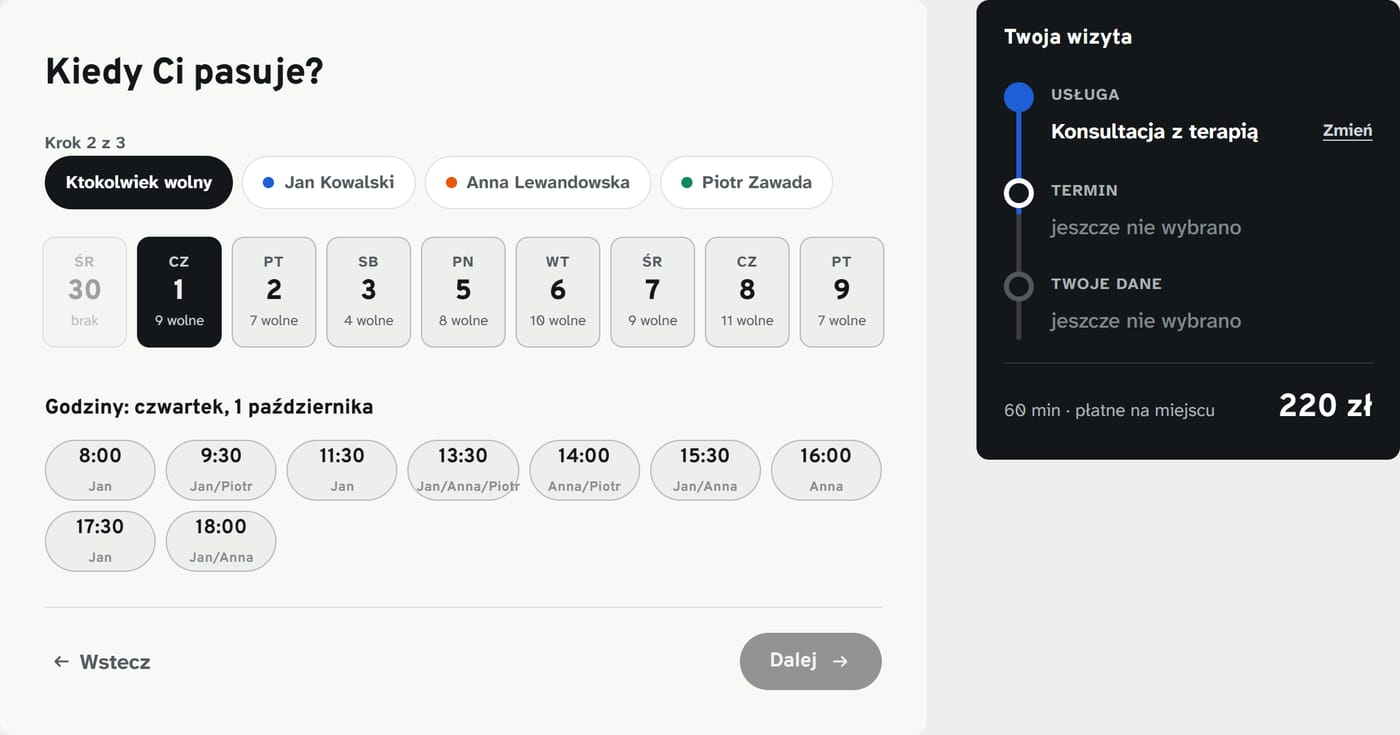
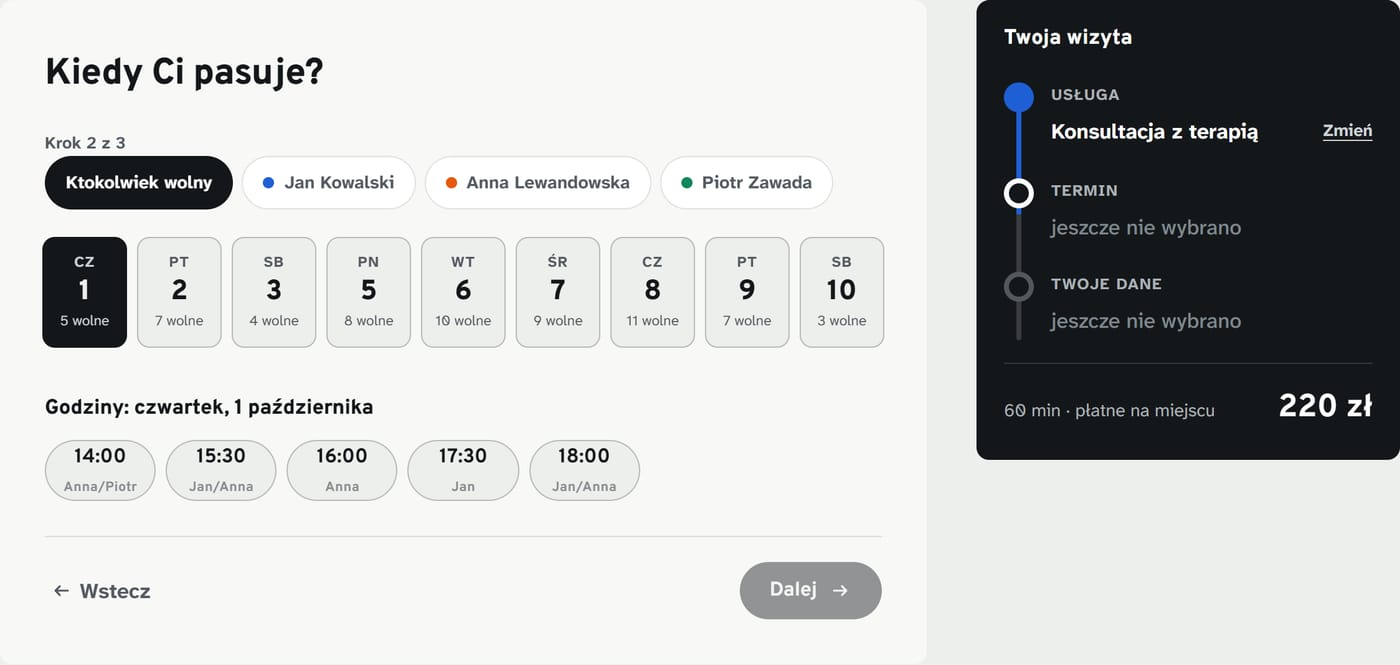
Makiety na ofercie pokazują kalendarz rezerwacji, nie stronę główną
W hero telefon z wyborem godziny zamiast ekranu startowego strony, a przy
pierwszej grupie zakresu szeroki kadr kroku z terminami. To on przekonuje:
widać prawdziwe godziny, imiona terapeutów i brak zajętych terminów, a nie
sam nagłówek „Co Cię boli?”.

Nowy zrzut strona-terminy-telefon dodany do generatora.

Testy UX: 75/75.

diff --git a/oferta-pilotaz.html b/oferta-pilotaz.html
@@ -73,7 +73,7 @@
 
         <div class="ofr-hero__kadry" aria-hidden="true">
           <img class="ofr-hero__panel" src="assets/img/zrzuty/panel-dzis.jpg" alt="" width="1400" height="972" />
-          <img class="ofr-hero__telefon" src="assets/img/zrzuty/strona-telefon.jpg" alt="" width="420" height="860" />
+          <img class="ofr-hero__telefon" src="assets/img/zrzuty/strona-terminy-telefon.jpg" alt="" width="420" height="946" />
         </div>
       </div>
     </section>
@@ -159,7 +159,7 @@
             <a class="ofr-grupa__link" href="demo.html" target="_blank" rel="noopener">Zobacz to w demie strony →</a>
           </div>
           <a class="ofr-grupa__obraz" href="demo.html" target="_blank" rel="noopener">
-            <img src="assets/img/zrzuty/strona-pierwszy-ekran.jpg" alt="Pierwszy ekran strony gabinetu: cztery problemy do wyboru i najbliższe wolne terminy." width="1400" height="836" loading="lazy" />
+            <img src="assets/img/zrzuty/strona-terminy.jpg" alt="Krok rezerwacji: wybór dnia i godziny z grafiku gabinetu, przy każdej godzinie imię terapeuty." width="1400" height="665" loading="lazy" />
           </a>
         </article>
 
